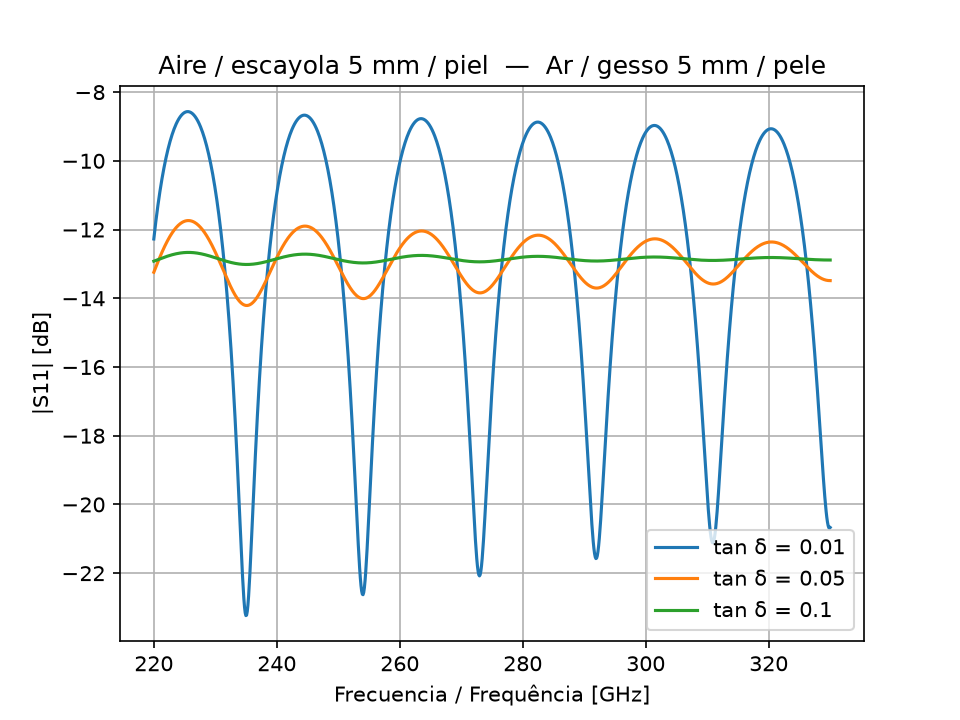
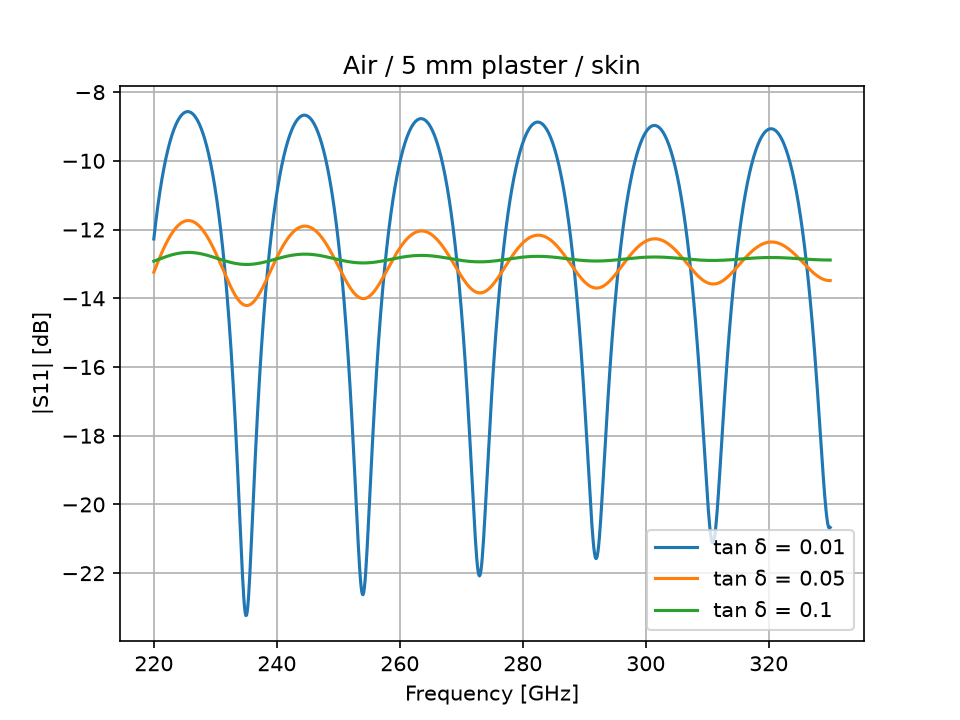
Finish_Task1

Changed region(s): [[0.1562, 0.0611, 0.7188, 0.1222], [0.3438, 0.9472, 0.6875, 0.9778], [0.75, 0.0611, 0.875, 0.1222]]

diff --git a/s11_simple.py b/s11_simple.py
@@ -1,161 +1,94 @@
-# =============================================================================
-# VERSIÓN SIMPLE / VERSÃO SIMPLES
-# Reflexión de una onda en: aire -> escayola -> piel
-# Reflexão de uma onda em: ar -> gesso -> pele
-# =============================================================================
+# S11 of a wave going through air -> plaster -> skin
 
-import numpy as np                 # cálculos con números complejos / cálculos com números complexos
-import matplotlib.pyplot as plt    # gráficas / gráficos
+import numpy as np
+import matplotlib.pyplot as plt
 
 
-# -----------------------------------------------------------------------------
-# PARTE 1: DATOS DEL PROBLEMA / DADOS DO PROBLEMA
-# -----------------------------------------------------------------------------
-
-c = 3e8          # velocidad de la luz [m/s] / velocidade da luz [m/s]
-
-# Permitividad de cada material (número complejo, j = imaginario en Python)
-# Permissividade de cada material (número complexo, j = imaginário em Python)
-eps_aire = 1.0               # aire / ar
-eps_piel = 4.0 - 3.0j        # piel (dada por el profesor) / pele (dada pelo professor)
-tan_delta = 0.05             # pérdidas de la escayola (prueba 0.01, 0.05, 0.1)
-                             # perdas do gesso (teste 0.01, 0.05, 0.1)
-eps_escayola = 2.5 * (1 - 1j * tan_delta)   # escayola / gesso
-
-d = 5e-3         # espesor de la escayola = 5 mm / espessura do gesso = 5 mm
-f = 275e9        # frecuencia = 275 GHz / frequência = 275 GHz
+# Parameters
+c = 3e8                      # speed of light [m/s]
+eps_aire = 1.0               # air permittivity
+eps_piel = 4.0 - 3.0j        # skin permittivity
+tan_delta = 0.05             # plaster loss tangent
+eps_escayola = 2.5 * (1 - 1j * tan_delta)   # plaster permittivity
+d = 5e-3                     # plaster thickness [m]
+f = 275e9                    # frequency [Hz]
 
 
-# -----------------------------------------------------------------------------
-# PARTE 2: ÍNDICE DE REFRACCIÓN  n = raíz(eps)
-#          ÍNDICE DE REFRAÇÃO    n = raiz(eps)
-# -----------------------------------------------------------------------------
-# n dice cuánto se frena la onda (parte real) y cuánto se atenúa (parte imaginaria).
-# n diz quanto a onda desacelera (parte real) e quanto ela atenua (parte imaginária).
-# Con la convención exp(+jwt), la parte imaginaria de n debe ser NEGATIVA.
-# Com a convenção exp(+jwt), a parte imaginária de n deve ser NEGATIVA.
-# np.sqrt ya devuelve la raíz con parte imaginaria negativa aquí.
-# np.sqrt já devolve a raiz com parte imaginária negativa aqui.
+# Refractive indices
+n1 = np.sqrt(eps_aire)
+n2 = np.sqrt(eps_escayola)
+n3 = np.sqrt(eps_piel)
 
-n1 = np.sqrt(eps_aire)        # aire / ar
-n2 = np.sqrt(eps_escayola)    # escayola / gesso
-n3 = np.sqrt(eps_piel)        # piel / pele
-
-print("n aire / ar       =", n1)
-print("n escayola / gesso =", np.round(n2, 4))
-print("n piel / pele     =", np.round(n3, 4))
+print("n air     =", n1)
+print("n plaster =", np.round(n2, 4))
+print("n skin    =", np.round(n3, 4))
 
 
-# -----------------------------------------------------------------------------
-# PARTE 3: REFLEXIÓN EN CADA FRONTERA (Fresnel)
-#          REFLEXÃO EM CADA FRONTEIRA (Fresnel)
-# -----------------------------------------------------------------------------
-# Cuando la onda pasa de un material a otro, una parte rebota:
-# Quando a onda passa de um material para outro, uma parte reflete:
-#       r = (n_antes - n_después) / (n_antes + n_después)
-#       r = (n_antes - n_depois)  / (n_antes + n_depois)
+# Fresnel reflection coefficients (formule book)
+r12 = (n1 - n2) / (n1 + n2)   # air -> plaster
+r23 = (n2 - n3) / (n2 + n3)   # plaster -> skin
 
-r12 = (n1 - n2) / (n1 + n2)   # frontera aire -> escayola / fronteira ar -> gesso
-r23 = (n2 - n3) / (n2 + n3)   # frontera escayola -> piel / fronteira gesso -> pele
-
-print("\n|r12| aire->escayola / ar->gesso   =", round(abs(r12), 3))
-print("|r23| escayola->piel / gesso->pele =", round(abs(r23), 3))
+print("\n|r12| air->plaster  =", round(abs(r12), 3))
+print("|r23| plaster->skin =", round(abs(r23), 3))
 
 
-# -----------------------------------------------------------------------------
-# PARTE 4: EL VIAJE DENTRO DE LA ESCAYOLA (ida y vuelta)
-#          A VIAGEM DENTRO DO GESSO (ida e volta)
-# -----------------------------------------------------------------------------
-# k0 = número de onda en el aire / número de onda no ar
+# Wavenumber in air (applying formule)
 k0 = 2 * np.pi * f / c
 
-# La onda recorre 2*d (va hasta la piel y vuelve).
-# A onda percorre 2*d (vai até a pele e volta).
-# Este factor hace DOS cosas / Este fator faz DUAS coisas:
-#   - gira la fase (por la parte real de n2)      -> oscilaciones / oscilações
-#   - reduce la amplitud (por la parte imag. de n2) -> pérdidas / perdas
+# Round-trip propagation factor in the plaster (phase + attenuation)
 viaje = np.exp(-2j * k0 * n2 * d)
 
-print("\nAtenuación ida y vuelta / Atenuação ida e volta =",
+print("\nRound-trip attenuation =",
       round(20 * np.log10(abs(viaje)), 2), "dB")
 
 
-# -----------------------------------------------------------------------------
-# PARTE 5: REFLEXIÓN TOTAL S11 (suma de todos los rebotes)
-#          REFLEXÃO TOTAL S11 (soma de todas as reflexões)
-# -----------------------------------------------------------------------------
-# Fórmula de una capa (Ulaby, sección 2-10):
-# Fórmula de uma camada (Ulaby, seção 2-10):
-#       S11 = (r12 + r23*viaje) / (1 + r12*r23*viaje)
-# El numerador = eco de la superficie + eco de la piel.
-# O numerador = eco da superfície + eco da pele.
-# El denominador = los rebotes múltiples dentro de la escayola.
-# O denominador = as reflexões múltiplas dentro do gesso.
-
+# Total reflection coefficient of a single layer (Ulaby, 2-10)
 S11 = (r12 + r23 * viaje) / (1 + r12 * r23 * viaje)
 
-# Pasar a dB (20 porque es amplitud de campo, no potencia)
-# Converter para dB (20 porque é amplitude de campo, não potência)
+# S11 in dB
 S11_dB = 20 * np.log10(abs(S11))
-print("\nS11 a 275 GHz, d = 5 mm:", round(S11_dB, 2), "dB")
+print("\nS11 at 275 GHz, d = 5 mm:", round(S11_dB, 2), "dB")
 
 
-# -----------------------------------------------------------------------------
-# PARTE 6: GRÁFICA 1 -> S11 vs FRECUENCIA (d = 5 mm)
-#          GRÁFICO 1 -> S11 vs FREQUÊNCIA (d = 5 mm)
-# -----------------------------------------------------------------------------
-# Repetimos el cálculo para muchas frecuencias y para cada tan_delta.
-# Repetimos o cálculo para muitas frequências e para cada tan_delta.
-
-frecuencias = np.linspace(220e9, 330e9, 1000)   # 1000 puntos / 1000 pontos
-
-plt.figure()
-for td in [0.01, 0.05, 0.1]:
-    n2 = np.sqrt(2.5 * (1 - 1j * td))           # nueva escayola / novo gesso
-    r12 = (n1 - n2) / (n1 + n2)
-    r23 = (n2 - n3) / (n2 + n3)
-    k0 = 2 * np.pi * frecuencias / c             # ahora k0 es un vector / agora k0 é um vetor
-    viaje = np.exp(-2j * k0 * n2 * d)
-    S11 = (r12 + r23 * viaje) / (1 + r12 * r23 * viaje)
-    plt.plot(frecuencias / 1e9, 20 * np.log10(abs(S11)), label=f"tan δ = {td}")
-
-plt.xlabel("Frecuencia / Frequência [GHz]")
-plt.ylabel("|S11| [dB]")
-plt.title("Aire / escayola 5 mm / piel  —  Ar / gesso 5 mm / pele")
-plt.grid()
-plt.legend()
-plt.savefig("simple_vs_frecuencia.png", dpi=150)
-
-
-# -----------------------------------------------------------------------------
-# PARTE 7: GRÁFICA 2 -> S11 vs ESPESOR (f = 275 GHz)
-#          GRÁFICO 2 -> S11 vs ESPESSURA (f = 275 GHz)
-# -----------------------------------------------------------------------------
-espesores = np.linspace(0, 10e-3, 1000)   # de 0 a 10 mm / de 0 a 10 mm
-k0 = 2 * np.pi * 275e9 / c                # frecuencia fija / frequência fixa
+# Plot 1: S11 vs frequency
+frecuencias = np.linspace(220e9, 330e9, 1000)
 
 plt.figure()
 for td in [0.01, 0.05, 0.1]:
     n2 = np.sqrt(2.5 * (1 - 1j * td))
     r12 = (n1 - n2) / (n1 + n2)
     r23 = (n2 - n3) / (n2 + n3)
-    viaje = np.exp(-2j * k0 * n2 * espesores)   # ahora cambia el espesor / agora muda a espessura
+    k0 = 2 * np.pi * frecuencias / c
+    viaje = np.exp(-2j * k0 * n2 * d)
+    S11 = (r12 + r23 * viaje) / (1 + r12 * r23 * viaje)
+    plt.plot(frecuencias / 1e9, 20 * np.log10(abs(S11)), label=f"tan δ = {td}")
+
+plt.xlabel("Frequency [GHz]")
+plt.ylabel("|S11| [dB]")
+plt.title("Air / 5 mm plaster / skin")
+plt.grid()
+plt.legend()
+plt.savefig("simple_vs_frecuencia.png", dpi=150)
+
+
+# Plot 2: S11 vs thickness
+espesores = np.linspace(0, 10e-3, 1000)
+k0 = 2 * np.pi * 275e9 / c
+
+plt.figure()
+for td in [0.01, 0.05, 0.1]:
+    n2 = np.sqrt(2.5 * (1 - 1j * td))
+    r12 = (n1 - n2) / (n1 + n2)
+    r23 = (n2 - n3) / (n2 + n3)
+    viaje = np.exp(-2j * k0 * n2 * espesores)
     S11 = (r12 + r23 * viaje) / (1 + r12 * r23 * viaje)
     plt.plot(espesores * 1e3, 20 * np.log10(abs(S11)), label=f"tan δ = {td}")
 
-plt.xlabel("Espesor / Espessura [mm]")
+plt.xlabel("Thickness [mm]")
 plt.ylabel("|S11| [dB]")
 plt.title("275 GHz")
 plt.grid()
 plt.legend()
 plt.savefig("simple_vs_espesor.png", dpi=150)
-
-# -----------------------------------------------------------------------------
-# CÓMO LEER LAS GRÁFICAS / COMO LER OS GRÁFICOS
-# -----------------------------------------------------------------------------
-# - Oscilaciones grandes = el eco de la piel llega fuerte -> SÍ vemos la piel.
-#   Oscilações grandes = o eco da pele chega forte -> SIM vemos a pele.
-# - Curva plana (~ -13 dB) = solo vemos la superficie -> NO vemos la piel.
-#   Curva plana (~ -13 dB) = só vemos a superfície -> NÃO vemos a pele.
 
 plt.show()
